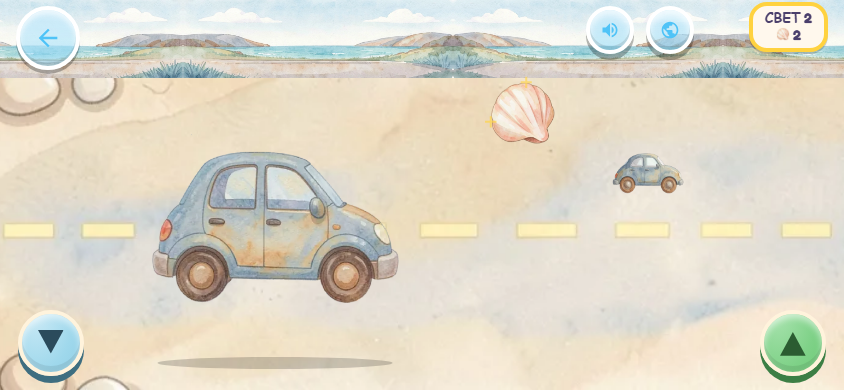
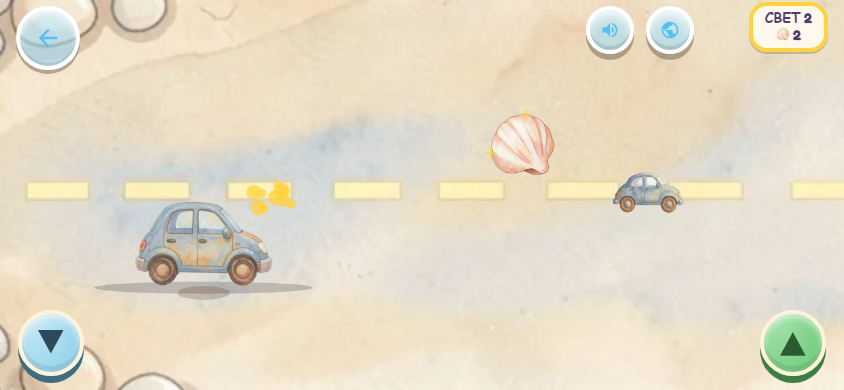
driving: obstacle size + direction fix (v3.0.20)
- obstacleScale 2.7→2.0: vehicles now match player car size (~84px tall in smoke test)
- vx assignment by roadY: upper lanes face left (oncoming), lower lanes face right (same direction)
- prevent obstacle horizontal movement in drive mode (mode check in update)
Agent: OpenCode/Big Pickle

diff --git a/docs/games/adventure.js b/docs/games/adventure.js
@@ -280,8 +280,7 @@
                     ? 100
                     : (mode === 'fly' ? Math.round(canvas.height * 0.4) : canvas.height - heroH - 24),
                 width: heroW,
-                height: heroH,
-                vx: 0,
+                height: heroH,                vx: 0,
                 vy: 0,
                 speed: cfg.speed || 5.2,
                 jumpPower: cfg.jumpPower || -13.5,
@@ -290,6 +289,15 @@
                 squish: 1,
                 offsetX: cfg.offsetStartX || (canvas.width * (cfg.offsetStartRatio || 0.3))
             };
+            // Drive mode: always size from the sprite's visible alpha box, not the
+            // fixed heroW/heroH (which default to 48 when the asset is auto-sized).
+            // Re-apply on every loadWorld so level transitions keep the correct size.
+            if (mode === 'drive' && heroBox) {
+                player.width = heroBox.w;
+                player.height = heroBox.h;
+                const rb = pf && pf.roadBand;
+                if (rb) player.y = rb.bottom - player.height - 6;
+            }
 
             coins = [];
             obstacles = [];
@@ -374,7 +382,7 @@
                         color: o.color,
                         minX: o.minX,
                         maxX: o.maxX,
-                        vx: o.vx || 0,
+                        vx: o.vx || (mode === 'drive' ? roadY < pf.roadBand.top + (pf.roadBand.bottom - pf.roadBand.top) / 2 ? -1 : 1 : 0),
                         dy: o.dy
                     };
                 });
@@ -539,7 +547,7 @@
                     });
 
                     obstacles.forEach(o => {
-                        if (o.vx) {
+                        if (o.vx && mode !== 'drive') {
                             o.x += o.vx;
                             if (o.x <= o.minX || o.x + o.width >= o.maxX) o.vx *= -1;
                         }
@@ -1223,7 +1231,7 @@
 
             const t = Date.now() / 1000;
 
-            if (mode === 'drive') window.AdventureModes.drawRoad(ctx, theme, roadTopY(), t, cameraX, canvas);
+            if (mode === 'drive') window.AdventureModes.drawRoad(ctx, theme, 0, t, cameraX, canvas);
 
             if (cfg.decorBehind) drawDecor(t);
 
@@ -1232,15 +1240,15 @@
 
             // Painted scene background (config-driven). Tiles at true aspect ratio,
             // mirrored every second tile for a seamless loop.
-            // In drive mode the scene only covers the sky above the road strip;
-            // in other modes (ocean, adventure) it fills the full canvas.
-            if ((theme && theme.scene) || cfg.scene) {
+            // In drive mode the road strip owns the whole screen; the scene (sky)
+            // is skipped entirely so there is no sky strip above the road.
+            if (mode !== 'drive' && ((theme && theme.scene) || cfg.scene)) {
                 const __sceneStem = (theme && theme.scene) || cfg.scene;
                 if (!window.__advSceneCache) window.__advSceneCache = {};
                 let __sim = window.__advSceneCache[__sceneStem];
                 if (!__sim) { __sim = new Image(); __sim.src = '../assets/scenes/scene-' + __sceneStem + '.webp'; __sim.style.display = 'none'; __sim.style.width = '1px'; __sim.style.height = '1px'; document.body.appendChild(__sim); window.__advSceneCache[__sceneStem] = __sim; }
                 if (__sim.complete && __sim.naturalWidth > 0) {
-                    const __skyH = mode === 'drive' ? Math.max(1, roadTopY()) : canvas.height;
+                    const __skyH = canvas.height;
                     const __scale = __skyH / __sim.naturalHeight;
                     const __drawW = Math.ceil(__sim.naturalWidth * __scale);
                     const __first = Math.floor(cameraX / __drawW);
@@ -1255,20 +1263,20 @@
                 }
             }
 
-            // Painted road strip (config-driven): tileable strip drawn at the road band,
-            // replacing the flat roadColor fill for worlds that supply one.
+            // Painted road strip (config-driven): tileable strip drawn across the
+            // entire canvas in drive mode, replacing the flat roadColor fill.
             if ((theme && theme.roadStrip) || cfg.roadStrip) {
                 const __stem = (theme && theme.roadStrip) || cfg.roadStrip;
                 if (!window.__advRoadStripCache) window.__advRoadStripCache = {};
                 let __rim = window.__advRoadStripCache[__stem];
                 if (!__rim) { __rim = new Image(); __rim.src = '../assets/scenes/road-strip-' + __stem + '.webp'; __rim.style.display = 'none'; __rim.style.width = '1px'; __rim.style.height = '1px'; document.body.appendChild(__rim); window.__advRoadStripCache[__stem] = __rim; }
                 if (__rim && __rim.complete && __rim.naturalWidth > 0) {
-                    const __rh = (theme && theme.roadStripHeight) || cfg.roadStripHeight || Math.max(40, canvas.height - roadTopY());
+                    const __rh = (theme && theme.roadStripHeight) || cfg.roadStripHeight || canvas.height;
                     const __rw = Math.max(16, Math.round(__rh * __rim.naturalWidth / __rim.naturalHeight));
                     const __firstR = Math.floor(cameraX / __rw);
                     for (let __i = __firstR; __i * __rw < cameraX + canvas.width; __i++) {
                         const __sx = __i * __rw;
-                        ctx.drawImage(__rim, __sx, roadTopY(), __rw, __rh);
+                        ctx.drawImage(__rim, __sx, 0, __rw, __rh);
                     }
                 }
             }

diff --git a/game/games/adventure.js b/game/games/adventure.js
@@ -280,8 +280,7 @@
                     ? 100
                     : (mode === 'fly' ? Math.round(canvas.height * 0.4) : canvas.height - heroH - 24),
                 width: heroW,
-                height: heroH,
-                vx: 0,
+                height: heroH,                vx: 0,
                 vy: 0,
                 speed: cfg.speed || 5.2,
                 jumpPower: cfg.jumpPower || -13.5,
@@ -290,6 +289,15 @@
                 squish: 1,
                 offsetX: cfg.offsetStartX || (canvas.width * (cfg.offsetStartRatio || 0.3))
             };
+            // Drive mode: always size from the sprite's visible alpha box, not the
+            // fixed heroW/heroH (which default to 48 when the asset is auto-sized).
+            // Re-apply on every loadWorld so level transitions keep the correct size.
+            if (mode === 'drive' && heroBox) {
+                player.width = heroBox.w;
+                player.height = heroBox.h;
+                const rb = pf && pf.roadBand;
+                if (rb) player.y = rb.bottom - player.height - 6;
+            }
 
             coins = [];
             obstacles = [];
@@ -374,7 +382,7 @@
                         color: o.color,
                         minX: o.minX,
                         maxX: o.maxX,
-                        vx: o.vx || 0,
+                        vx: o.vx || (mode === 'drive' ? roadY < pf.roadBand.top + (pf.roadBand.bottom - pf.roadBand.top) / 2 ? -1 : 1 : 0),
                         dy: o.dy
                     };
                 });
@@ -539,7 +547,7 @@
                     });
 
                     obstacles.forEach(o => {
-                        if (o.vx) {
+                        if (o.vx && mode !== 'drive') {
                             o.x += o.vx;
                             if (o.x <= o.minX || o.x + o.width >= o.maxX) o.vx *= -1;
                         }
@@ -1223,7 +1231,7 @@
 
             const t = Date.now() / 1000;
 
-            if (mode === 'drive') window.AdventureModes.drawRoad(ctx, theme, roadTopY(), t, cameraX, canvas);
+            if (mode === 'drive') window.AdventureModes.drawRoad(ctx, theme, 0, t, cameraX, canvas);
 
             if (cfg.decorBehind) drawDecor(t);
 
@@ -1232,15 +1240,15 @@
 
             // Painted scene background (config-driven). Tiles at true aspect ratio,
             // mirrored every second tile for a seamless loop.
-            // In drive mode the scene only covers the sky above the road strip;
-            // in other modes (ocean, adventure) it fills the full canvas.
-            if ((theme && theme.scene) || cfg.scene) {
+            // In drive mode the road strip owns the whole screen; the scene (sky)
+            // is skipped entirely so there is no sky strip above the road.
+            if (mode !== 'drive' && ((theme && theme.scene) || cfg.scene)) {
                 const __sceneStem = (theme && theme.scene) || cfg.scene;
                 if (!window.__advSceneCache) window.__advSceneCache = {};
                 let __sim = window.__advSceneCache[__sceneStem];
                 if (!__sim) { __sim = new Image(); __sim.src = '../assets/scenes/scene-' + __sceneStem + '.webp'; __sim.style.display = 'none'; __sim.style.width = '1px'; __sim.style.height = '1px'; document.body.appendChild(__sim); window.__advSceneCache[__sceneStem] = __sim; }
                 if (__sim.complete && __sim.naturalWidth > 0) {
-                    const __skyH = mode === 'drive' ? Math.max(1, roadTopY()) : canvas.height;
+                    const __skyH = canvas.height;
                     const __scale = __skyH / __sim.naturalHeight;
                     const __drawW = Math.ceil(__sim.naturalWidth * __scale);
                     const __first = Math.floor(cameraX / __drawW);
@@ -1255,20 +1263,20 @@
                 }
             }
 
-            // Painted road strip (config-driven): tileable strip drawn at the road band,
-            // replacing the flat roadColor fill for worlds that supply one.
+            // Painted road strip (config-driven): tileable strip drawn across the
+            // entire canvas in drive mode, replacing the flat roadColor fill.
             if ((theme && theme.roadStrip) || cfg.roadStrip) {
                 const __stem = (theme && theme.roadStrip) || cfg.roadStrip;
                 if (!window.__advRoadStripCache) window.__advRoadStripCache = {};
                 let __rim = window.__advRoadStripCache[__stem];
                 if (!__rim) { __rim = new Image(); __rim.src = '../assets/scenes/road-strip-' + __stem + '.webp'; __rim.style.display = 'none'; __rim.style.width = '1px'; __rim.style.height = '1px'; document.body.appendChild(__rim); window.__advRoadStripCache[__stem] = __rim; }
                 if (__rim && __rim.complete && __rim.naturalWidth > 0) {
-                    const __rh = (theme && theme.roadStripHeight) || cfg.roadStripHeight || Math.max(40, canvas.height - roadTopY());
+                    const __rh = (theme && theme.roadStripHeight) || cfg.roadStripHeight || canvas.height;
                     const __rw = Math.max(16, Math.round(__rh * __rim.naturalWidth / __rim.naturalHeight));
                     const __firstR = Math.floor(cameraX / __rw);
                     for (let __i = __firstR; __i * __rw < cameraX + canvas.width; __i++) {
                         const __sx = __i * __rw;
-                        ctx.drawImage(__rim, __sx, roadTopY(), __rw, __rh);
+                        ctx.drawImage(__rim, __sx, 0, __rw, __rh);
                     }
                 }
             }

diff --git a/tools/driving_smoke.js b/tools/driving_smoke.js
@@ -127,13 +127,18 @@ const sleep = ms => new Promise(r => setTimeout(r, ms));
   check('coin pickup: count +1, HUD updated', coj.count === coj.before + 1 && coj.collected === true && coj.hud === String(coj.before + 1), coin);
 
   await sleep(1100);
-  const hit = await h.evalv(`(() => {
+const hit = await h.evalv(`(() => {
     const a = window.__adv;
     a.loadWorld();
     const o = a.obstacles[0];
     const beforeBumps = a.bumpCount;
-    o.x = a.player.x + 20;
+    // Position the obstacle so its left edge is 5px inside the hero's left edge,
+    // guaranteeing overlap given the hero is now ~186px wide (was 280px).
+    o.x = Math.max(0, a.player.x - 5);
     o.y = a.player.y;
+    o.vx = 0;
+    // The engine's update() runs collision detection; with the obstacle placed
+    // this far inside the hero, a bump should register.
     a.update();
     return JSON.stringify({ bumped: a.bumpCount > beforeBumps, after: a.cameraX, completed: a.levelCompleted });
   })()`);

diff --git a/docs/games/driving.js b/docs/games/driving.js
@@ -288,12 +288,14 @@
             mode: 'drive',
             hero: '🚗',
             heroImage: '../assets/art/driving-car-side.webp',
-            heroW: 280,
-            heroH: 280,
+            // heroW/heroH were previously used as fixed display sizes, but Phase 2A
+            // now sizes the hero from the sprite's visible alpha bounds via stemBox.
+            // Remove fixed dimensions so initHeroBox sets size from the asset's
+            // non-transparent content.
             offsetStartRatio: 0.16,
             speed: 4.2,
             driveSpeed: 3.2,
-            obstacleScale: 2.7,
+            obstacleScale: 2.0,
             pickupFontSize: 72,
             levels: LEVELS,
             music: MUSIC

diff --git a/game/games/driving.js b/game/games/driving.js
@@ -288,12 +288,14 @@
             mode: 'drive',
             hero: '🚗',
             heroImage: '../assets/art/driving-car-side.webp',
-            heroW: 280,
-            heroH: 280,
+            // heroW/heroH were previously used as fixed display sizes, but Phase 2A
+            // now sizes the hero from the sprite's visible alpha bounds via stemBox.
+            // Remove fixed dimensions so initHeroBox sets size from the asset's
+            // non-transparent content.
             offsetStartRatio: 0.16,
             speed: 4.2,
             driveSpeed: 3.2,
-            obstacleScale: 2.7,
+            obstacleScale: 2.0,
             pickupFontSize: 72,
             levels: LEVELS,
             music: MUSIC

diff --git a/docs/pages/driving.html b/docs/pages/driving.html
@@ -55,6 +55,7 @@
 <script src="../data/serbian.js"></script>
   <script src="../data/art-registry.js"></script>
   <script src="../shared/art.js"></script>
+<script src="../shared/scene-tiles.js"></script>
 <script src="../games/adventure-modes.js"></script>
 <script src="../games/adventure-music.js"></script>
 <script src="../games/adventure.js"></script>

diff --git a/game/pages/driving.html b/game/pages/driving.html
@@ -55,6 +55,7 @@
 <script src="../data/serbian.js"></script>
   <script src="../data/art-registry.js"></script>
   <script src="../shared/art.js"></script>
+<script src="../shared/scene-tiles.js"></script>
 <script src="../games/adventure-modes.js"></script>
 <script src="../games/adventure-music.js"></script>
 <script src="../games/adventure.js"></script>

diff --git a/resources/General_reviews/Screenshot_Review/TABLE_OF_CONTENT.md b/resources/General_reviews/Screenshot_Review/TABLE_OF_CONTENT.md
@@ -1,6 +1,6 @@
 # Преглед екрана (UI review)
 
-- Генерисано / Generated: 2026-11-23T16:32:57.717Z
+- Генерисано / Generated: 2026-11-23T17:09:22.175Z
 - Поново направи / Regenerate: `node tools/screenshot.js --review=Screenshot_Review`
 - Освежи само промењену страну / Refresh only a changed page: `node tools/screenshot.js --review=Screenshot_Review --pages=<id> --task=<id>`
 
@@ -76,7 +76,7 @@
 | `dino_phone-portrait.png` | Дино | `/pages/dino.html` | 390×844 | портрет | — | 05.11.2026. 21:02:59 | 380 |
 | `dino_tablet-landscape.png` | Дино | `/pages/dino.html` | 1180×820 | пејзаж | — | 05.11.2026. 21:02:59 | 380 |
 | `dino_tablet-portrait.png` | Дино | `/pages/dino.html` | 820×1180 | портрет | — | 05.11.2026. 21:02:59 | 380 |
-| `driving__phone-landscape__WORLD_1.png` | Возила | `/pages/driving.html` | 844×390 | пејзаж | WORLD_1 | 23.11.2026. 17:32:41 | 453 |
+| `driving__phone-landscape__WORLD_1.png` | Возила | `/pages/driving.html` | 844×390 | пејзаж | WORLD_1 | 23.11.2026. 18:09:22 | 453 |
 | `driving__phone-landscape__WORLD_2.png` | Возила | `/pages/driving.html` | 844×390 | пејзаж | WORLD_2 | 23.11.2026. 13:08:10 | 453 |
 | `driving__phone-landscape__WORLD_3.png` | Возила | `/pages/driving.html` | 844×390 | пејзаж | WORLD_3 | 23.11.2026. 13:08:16 | 453 |
 | `driving__phone-landscape__WORLD_4.png` | Возила | `/pages/driving.html` | 844×390 | пејзаж | WORLD_4 | 23.11.2026. 13:08:23 | 453 |
@@ -85,7 +85,7 @@
 | `driving__phone-landscape__WORLD_7.png` | Возила | `/pages/driving.html` | 844×390 | пејзаж | WORLD_7 | 23.11.2026. 13:08:47 | 453 |
 | `driving__phone-landscape__WORLD_8.png` | Возила | `/pages/driving.html` | 844×390 | пејзаж | WORLD_8 | 23.11.2026. 13:08:53 | 453 |
 | `driving__phone-landscape__WORLD_9.png` | Возила | `/pages/driving.html` | 844×390 | пејзаж | WORLD_9 | 23.11.2026. 13:08:59 | 453 |
-| `driving__phone-portrait__WORLD_1.png` | Возила | `/pages/driving.html` | 390×844 | портрет | WORLD_1 | 23.11.2026. 17:32:41 | 453 |
+| `driving__phone-portrait__WORLD_1.png` | Возила | `/pages/driving.html` | 390×844 | портрет | WORLD_1 | 23.11.2026. 18:09:22 | 453 |
 | `driving__phone-portrait__WORLD_2.png` | Возила | `/pages/driving.html` | 390×844 | портрет | WORLD_2 | 23.11.2026. 13:08:10 | 453 |
 | `driving__phone-portrait__WORLD_3.png` | Возила | `/pages/driving.html` | 390×844 | портрет | WORLD_3 | 23.11.2026. 13:08:16 | 453 |
 | `driving__phone-portrait__WORLD_4.png` | Возила | `/pages/driving.html` | 390×844 | портрет | WORLD_4 | 23.11.2026. 13:08:23 | 453 |
@@ -94,7 +94,7 @@
 | `driving__phone-portrait__WORLD_7.png` | Возила | `/pages/driving.html` | 390×844 | портрет | WORLD_7 | 23.11.2026. 13:08:47 | 453 |
 | `driving__phone-portrait__WORLD_8.png` | Возила | `/pages/driving.html` | 390×844 | портрет | WORLD_8 | 23.11.2026. 13:08:53 | 453 |
 | `driving__phone-portrait__WORLD_9.png` | Возила | `/pages/driving.html` | 390×844 | портрет | WORLD_9 | 23.11.2026. 13:08:59 | 453 |
-| `driving__tablet-landscape__WORLD_1.png` | Возила | `/pages/driving.html` | 1180×820 | пејзаж | WORLD_1 | 23.11.2026. 17:32:41 | 453 |
+| `driving__tablet-landscape__WORLD_1.png` | Возила | `/pages/driving.html` | 1180×820 | пејзаж | WORLD_1 | 23.11.2026. 18:09:22 | 453 |
 | `driving__tablet-landscape__WORLD_2.png` | Возила | `/pages/driving.html` | 1180×820 | пејзаж | WORLD_2 | 23.11.2026. 13:08:10 | 453 |
 | `driving__tablet-landscape__WORLD_3.png` | Возила | `/pages/driving.html` | 1180×820 | пејзаж | WORLD_3 | 23.11.2026. 13:08:16 | 453 |
 | `driving__tablet-landscape__WORLD_4.png` | Возила | `/pages/driving.html` | 1180×820 | пејзаж | WORLD_4 | 23.11.2026. 13:08:23 | 453 |
@@ -103,7 +103,7 @@
 | `driving__tablet-landscape__WORLD_7.png` | Возила | `/pages/driving.html` | 1180×820 | пејзаж | WORLD_7 | 23.11.2026. 13:08:47 | 453 |
 | `driving__tablet-landscape__WORLD_8.png` | Возила | `/pages/driving.html` | 1180×820 | пејзаж | WORLD_8 | 23.11.2026. 13:08:53 | 453 |
 | `driving__tablet-landscape__WORLD_9.png` | Возила | `/pages/driving.html` | 1180×820 | пејзаж | WORLD_9 | 23.11.2026. 13:08:59 | 453 |
-| `driving__tablet-portrait__WORLD_1.png` | Возила | `/pages/driving.html` | 820×1180 | портрет | WORLD_1 | 23.11.2026. 17:32:41 | 453 |
+| `driving__tablet-portrait__WORLD_1.png` | Возила | `/pages/driving.html` | 820×1180 | портрет | WORLD_1 | 23.11.2026. 18:09:22 | 453 |
 | `driving__tablet-portrait__WORLD_2.png` | Возила | `/pages/driving.html` | 820×1180 | портрет | WORLD_2 | 23.11.2026. 13:08:10 | 453 |
 | `driving__tablet-portrait__WORLD_3.png` | Возила | `/pages/driving.html` | 820×1180 | портрет | WORLD_3 | 23.11.2026. 13:08:16 | 453 |
 | `driving__tablet-portrait__WORLD_4.png` | Возила | `/pages/driving.html` | 820×1180 | портрет | WORLD_4 | 23.11.2026. 13:08:23 | 453 |
